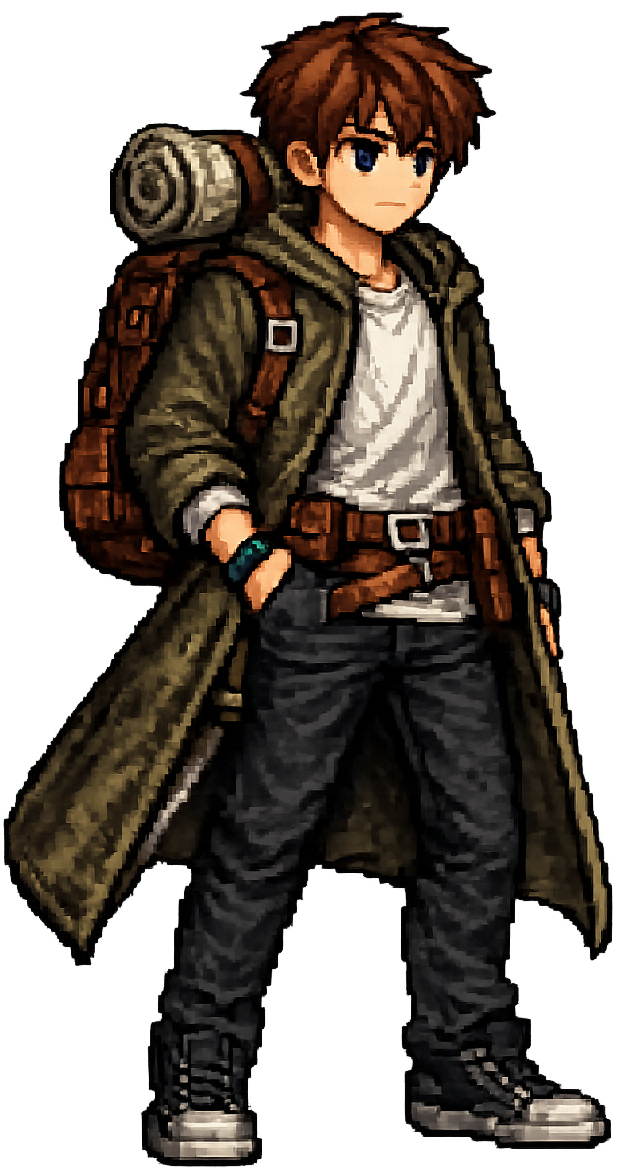
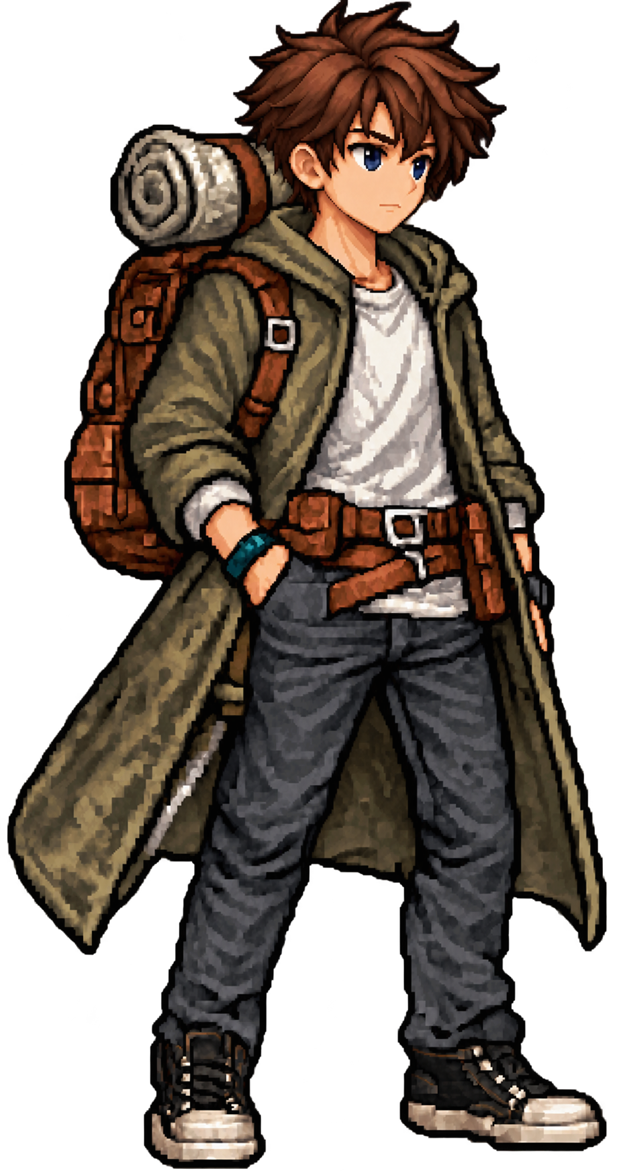
fix(story): silence Hideshi's steps outside until he walks in; no pause menu once a battle is over
- Walk To can be silent: no footsteps while it walks, e.g. coming up outside
- Hideshi walks up to the door silently and is heard from the wooden floor on
- Esc, losing focus and the inventory no longer open over the battle end panel
- Redraw the player sprite; widen the inventory in battle

diff --git a/Assets/_Project/Scripts/Story/Events/Steps/WalkToStep.cs b/Assets/_Project/Scripts/Story/Events/Steps/WalkToStep.cs
@@ -14,6 +14,8 @@ public sealed class WalkToStep : StoryStep
     [SerializeField, Min(0.1f)] private float speed = 2f;
     [Tooltip("Steps back: faces away from where it walks, e.g. backing away from the TV while watching it.")]
     [SerializeField] private bool backwards;
+    [Tooltip("No footsteps, e.g. walking up outside, out of view, before coming in.")]
+    [SerializeField] private bool silent;
 
     public override IEnumerator Run(StoryEventContext context)
     {
@@ -24,6 +26,13 @@ public sealed class WalkToStep : StoryStep
 
         context.TakeControl(walker);
         Animator animator = StoryEventContext.GetAnimator(walker);
+        FootstepAudio footsteps = silent ? walker.GetComponentInChildren<FootstepAudio>() : null;
+        if (footsteps != null)
+        {
+            footsteps.Muted = true;
+            // Heard again also if the event stops halfway.
+            context.OnRelease(() => Unmute(footsteps));
+        }
 
         Vector3 end = target.position + (Vector3)offset;
         end.z = walker.position.z;
@@ -41,11 +50,21 @@ public sealed class WalkToStep : StoryStep
         }
 
         CharacterWalkAnimation.Apply(animator, false, facing);
+        Unmute(footsteps);
         context.SavePosition(walker);
+    }
+
+    private static void Unmute(FootstepAudio footsteps)
+    {
+        if (footsteps != null)
+            footsteps.Muted = false;
     }
 
     public override string ToString()
     {
-        return backwards ? $"{actor} backs away to {destination}" : $"{actor} walks to {destination}";
+        string quietly = silent ? " quietly" : string.Empty;
+        return backwards
+            ? $"{actor} backs away{quietly} to {destination}"
+            : $"{actor} walks{quietly} to {destination}";
     }
 }

diff --git a/Assets/_Project/Scripts/Core/Game/GameStateManager.cs b/Assets/_Project/Scripts/Core/Game/GameStateManager.cs
@@ -10,19 +10,24 @@ public static class GameStateManager
 
     public static bool CanOpenInventory()
     {
-        if (!IsGameplay)
-            return false;
-
-        if (!IsBattleScene)
-            return true;
-
-        BattleSystem battleSystem = UnityEngine.Object.FindFirstObjectByType<BattleSystem>();
-        return battleSystem != null && battleSystem.CurrentBattleState == BattleState.Running;
+        return IsGameplay && !IsBattleOver();
     }
 
+    // Esc and losing the window's focus alike.
     public static bool CanPause()
     {
-        return IsGameplay && LastStateChangeFrame != UnityEngine.Time.frameCount;
+        return IsGameplay && LastStateChangeFrame != UnityEngine.Time.frameCount && !IsBattleOver();
+    }
+
+    // Won or lost: the battle end panel is up, and neither the pause menu nor the inventory opens
+    // over it.
+    private static bool IsBattleOver()
+    {
+        if (!IsBattleScene)
+            return false;
+
+        BattleSystem battleSystem = UnityEngine.Object.FindFirstObjectByType<BattleSystem>();
+        return battleSystem == null || battleSystem.CurrentBattleState != BattleState.Running;
     }
 
     public static bool CanEditCardCollections()

diff --git a/Assets/_Project/Scripts/Audio/FootstepAudio.cs b/Assets/_Project/Scripts/Audio/FootstepAudio.cs
@@ -60,6 +60,9 @@ public sealed class FootstepAudio : MonoBehaviour
     private PlayerMovement movement;
     private Animator animator;
 
+    // Set by a story event walking the character unheard, e.g. outside, out of view (WalkToStep).
+    public bool Muted { get; set; }
+
     // A story event walking the character counts too: the game is not in Gameplay then, and the
     // walk animation is all there is to go by.
     private bool IsWalking => StoryEventContext.IsControlledByStory(transform)
@@ -98,7 +101,7 @@ public sealed class FootstepAudio : MonoBehaviour
 
     public void PlayFootstep()
     {
-        if (!IsWalking)
+        if (Muted || !IsWalking)
             return;
 
         FootstepSurface surface = DetectSurface();
